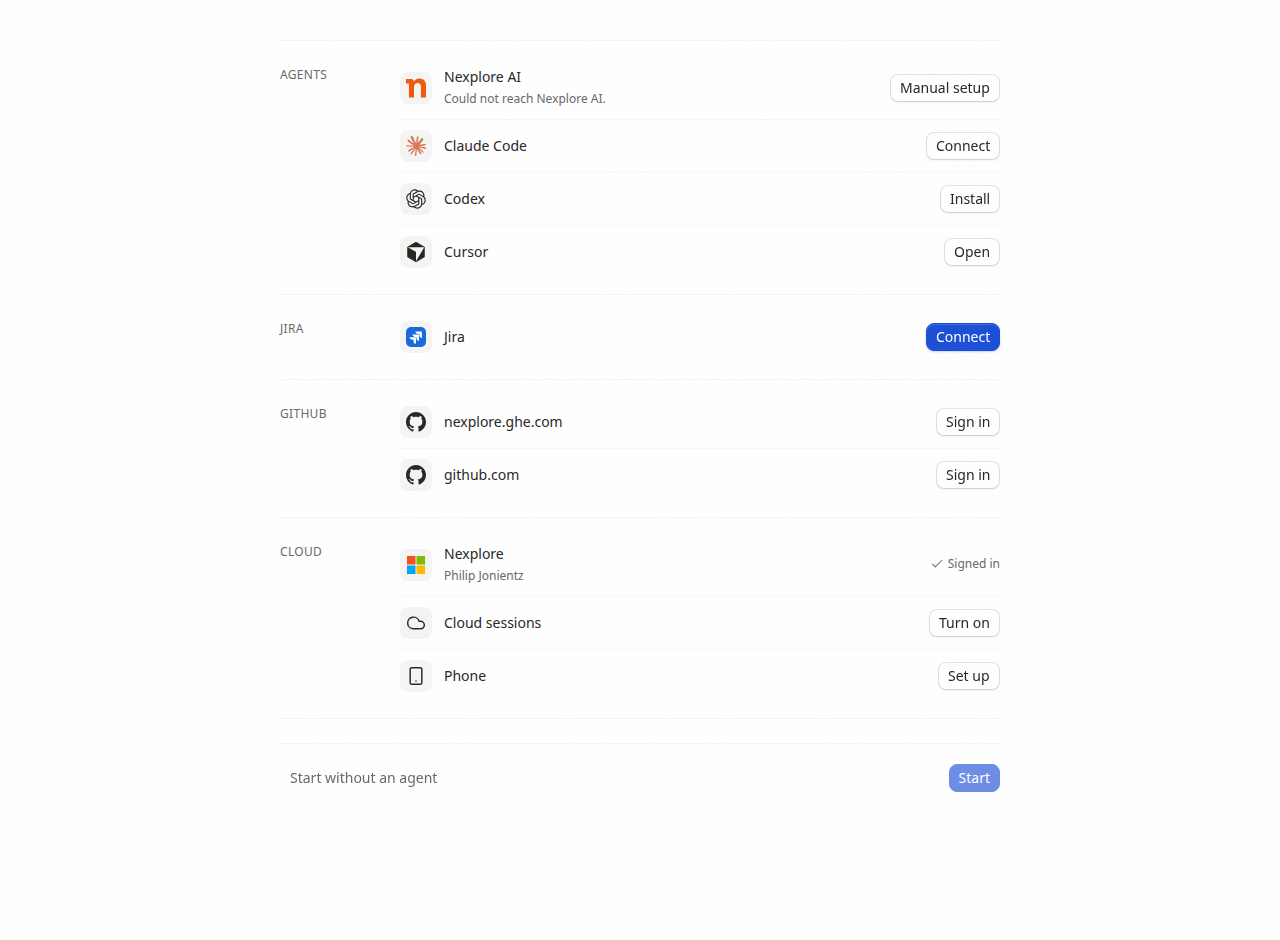
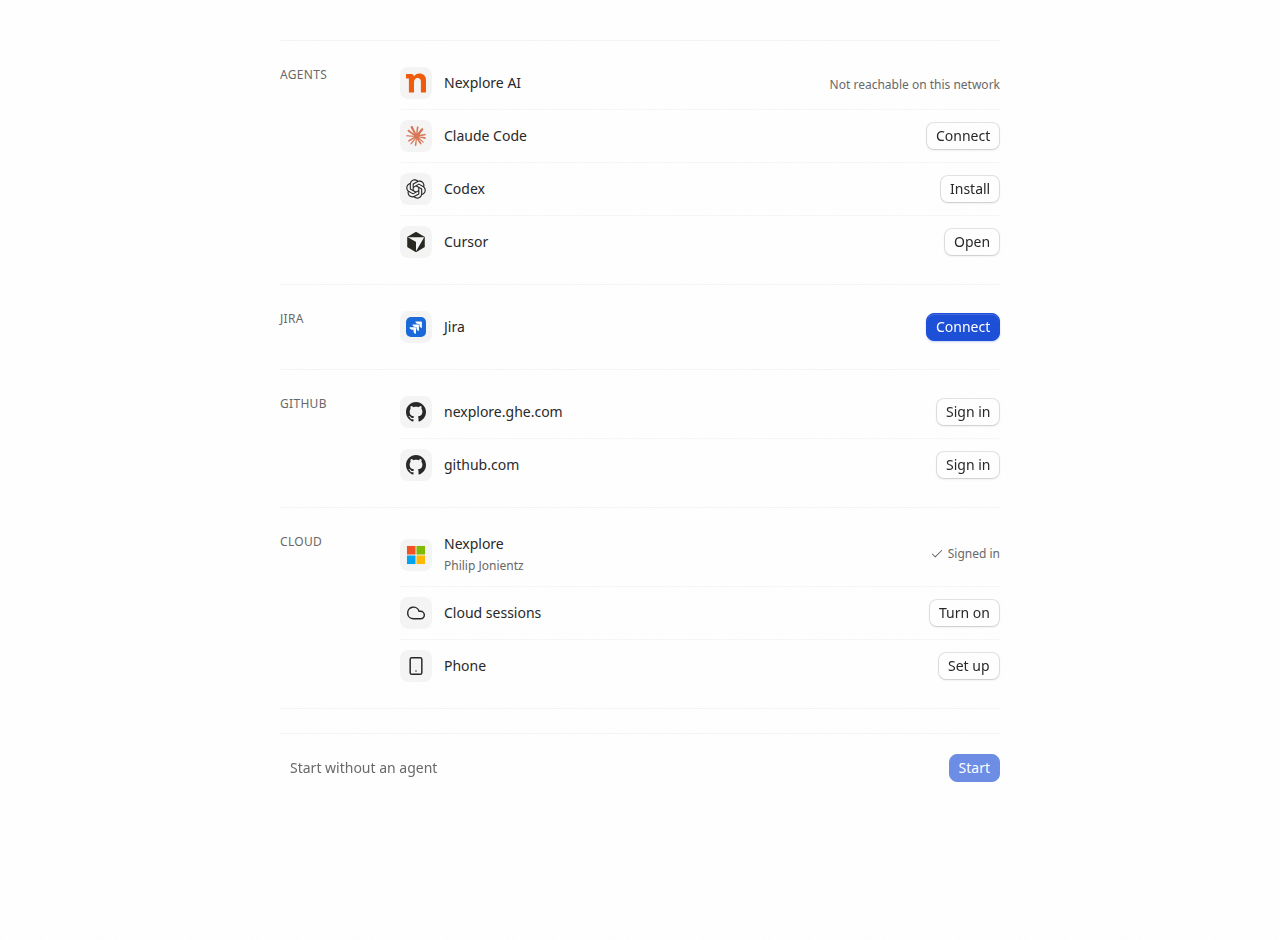
feat(web): Nexplore AI needs no sign-in on welcome mockups
Agent row is Ready/Available with status only — no Sign in or Manual
setup. Unreachable shows a quiet "Not reachable on this network" status.
Only Cloud Entra remains a sign-in action.

diff --git a/apps/web/src/t3team/stories/welcome/t3team-NexiWelcomeSections.fixtures.tsx b/apps/web/src/t3team/stories/welcome/t3team-NexiWelcomeSections.fixtures.tsx
@@ -164,6 +164,7 @@ export function CloudBlock({
 }
 
 export function AgentsBlock({ state }: { readonly state: AgentsStoryState }) {
+  // Nexplore AI needs no sign-in/key/setup — status only, never an action button.
   const nexplore =
     state === "ready" ? (
       <AgentItem
@@ -177,16 +178,14 @@ export function AgentsBlock({ state }: { readonly state: AgentsStoryState }) {
         mark={<NexploreAI aria-hidden />}
         markLabel="Nexplore AI"
         title="Nexplore AI"
-        description="Could not reach Nexplore AI."
-        action={<SecondaryAction onClick={noop}>Manual setup</SecondaryAction>}
+        status={<StatusLabel status="pending" label="Not reachable on this network" />}
       />
     ) : (
       <AgentItem
         mark={<NexploreAI aria-hidden />}
         markLabel="Nexplore AI"
         title="Nexplore AI"
-        status={<StatusLabel status="action" label="Available" />}
-        action={<SecondaryAction onClick={noop}>Sign in</SecondaryAction>}
+        status={<StatusLabel status="ready" label="Available" />}
       />
     );
 

diff --git a/apps/web/src/t3team/stories/welcome/t3team-NexiWelcomeScenario.fixtures.tsx b/apps/web/src/t3team/stories/welcome/t3team-NexiWelcomeScenario.fixtures.tsx
@@ -37,7 +37,8 @@ export type WelcomeScenario = {
 export const SCENARIOS = {
   FreshInstall: {
     account: "signedOut",
-    agents: "none",
+    // Built-in Nexplore AI needs no setup — ready without sign-in.
+    agents: "ready",
     roleToggleOn: false,
     jira: "notConnected",
     github: "signedOut",
@@ -85,7 +86,7 @@ export const SCENARIOS = {
   },
   ServerUnreachable: {
     account: "serverUnreachable",
-    agents: "none",
+    agents: "ready",
     roleToggleOn: false,
     jira: "notConnected",
     github: "signedOut",
@@ -93,7 +94,7 @@ export const SCENARIOS = {
   },
   Narrow390: {
     account: "signedOut",
-    agents: "none",
+    agents: "ready",
     roleToggleOn: false,
     jira: "notConnected",
     github: "signedOut",

diff --git a/apps/web/src/t3team/stories/welcome/t3team-NexiWelcomePage.stories.tsx b/apps/web/src/t3team/stories/welcome/t3team-NexiWelcomePage.stories.tsx
@@ -33,7 +33,7 @@ export const SkippedOptional: Story = { args: { scenario: SCENARIOS.SkippedOptio
 /** Role section only when the feature toggle is on (off by default in product). */
 export const RoleToggleOn: Story = { args: { scenario: SCENARIOS.RoleToggleOn } };
 
-/** Nexplore AI unreachable — manual path; full agent list still visible. */
+/** Nexplore AI not reachable on this network — quiet status, no setup action. */
 export const NexploreAIUnreachable: Story = {
   args: { scenario: SCENARIOS.NexploreAIUnreachable },
 };

diff --git a/apps/web/src/t3team/stories/welcome/t3team-NexiWelcomeAgents.stories.tsx b/apps/web/src/t3team/stories/welcome/t3team-NexiWelcomeAgents.stories.tsx
@@ -22,7 +22,8 @@ export const NexploreReady: Story = {
   ),
 };
 
-export const NoneFound: Story = {
+/** Available with no action — Nexplore AI needs no sign-in or setup. */
+export const Available: Story = {
   render: () => (
     <SectionFrame title="Agents">
       <AgentsBlock state="none" />
